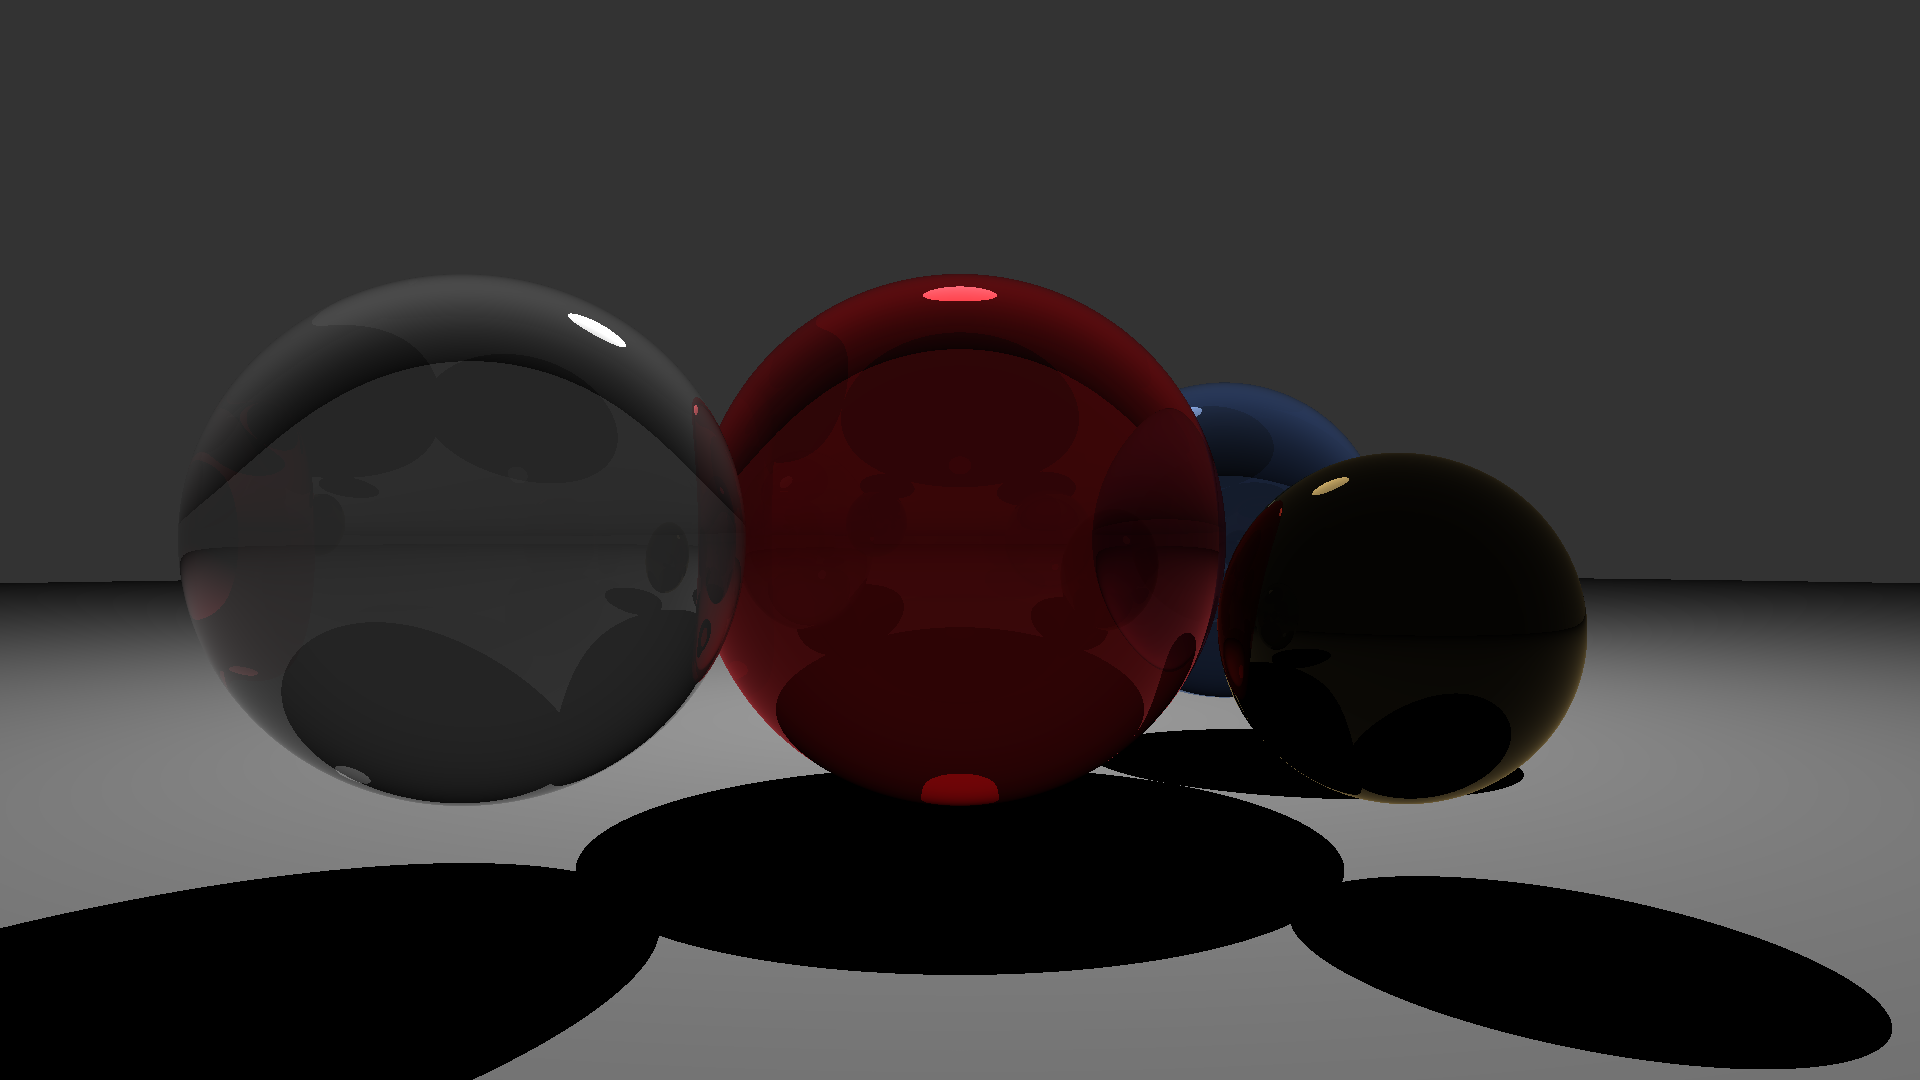
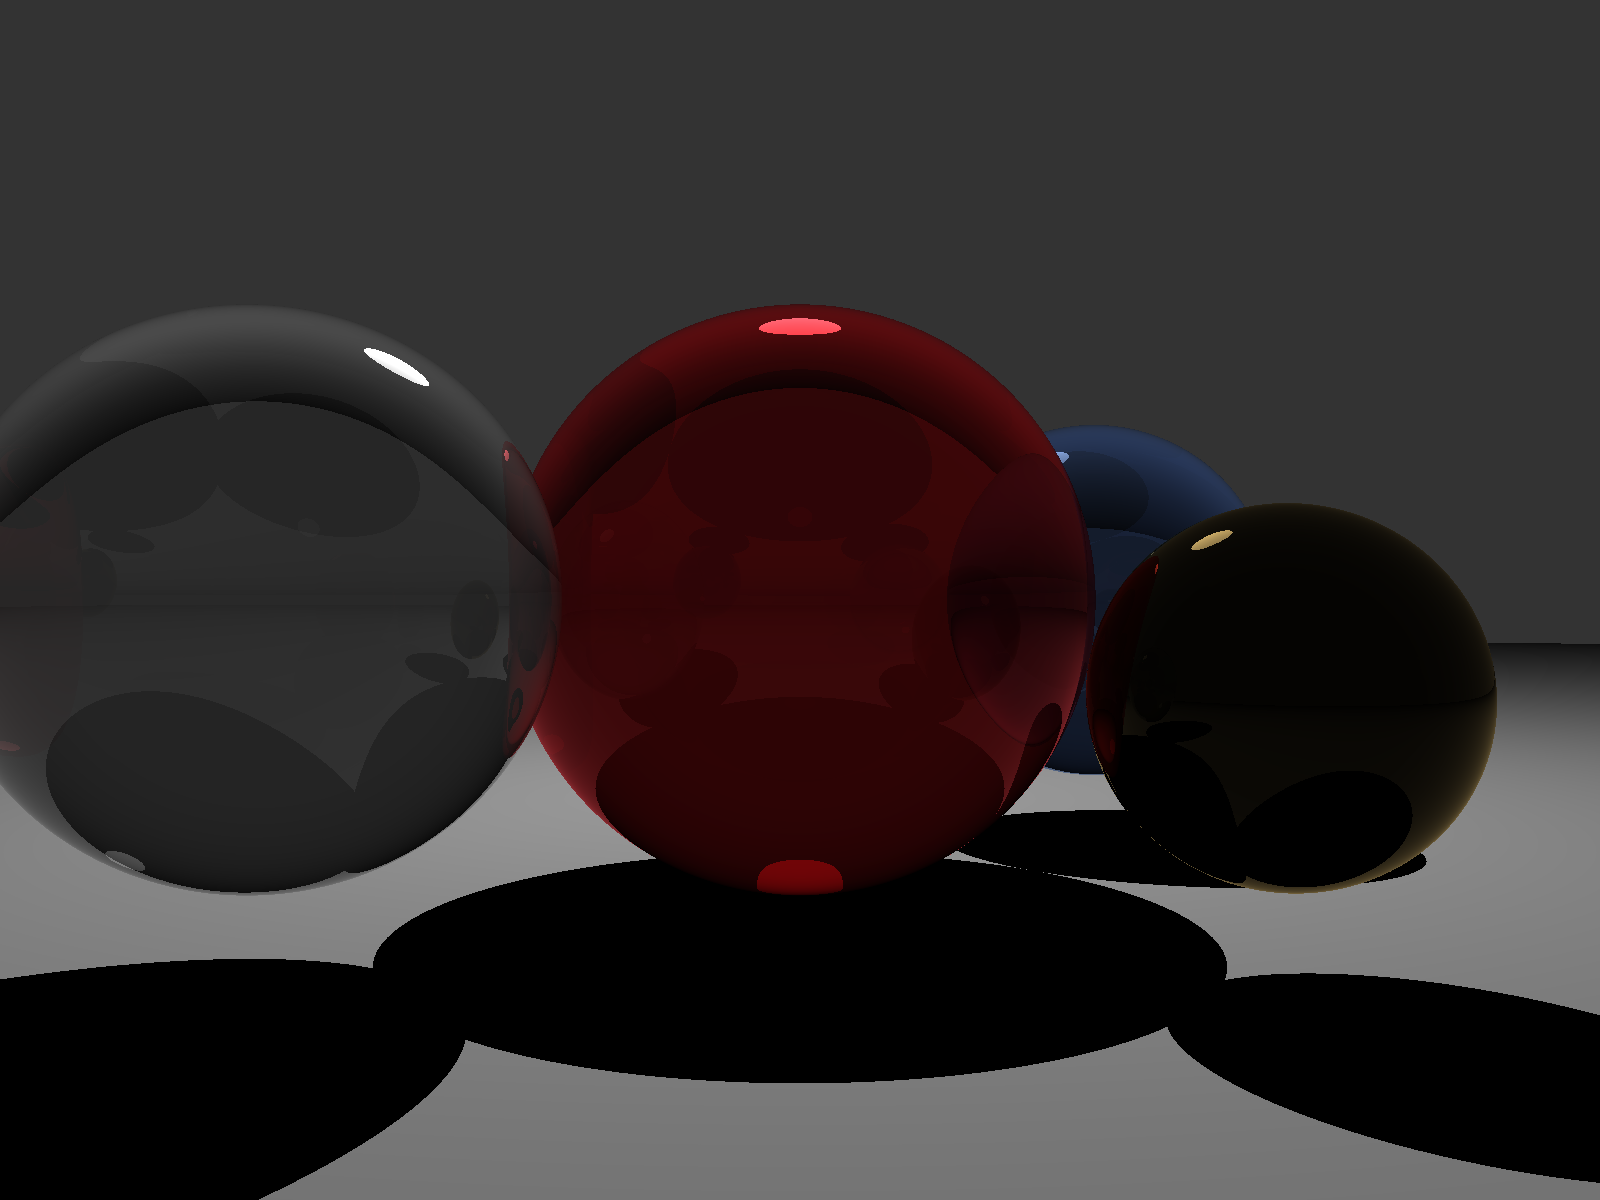
a little sprucing up for linking from my website

diff --git a/main.cpp b/main.cpp
@@ -3,6 +3,9 @@
 #include <string.h>
 #include <stdlib.h>
 
+#include <ctime>
+#include <chrono>
+
 #include "vec3.h"
 #include "sphere.h"
 #include "raytracer.h"
@@ -37,7 +40,7 @@ int main(int argc, char **argv)
 	else
 	{
 		std::cout << "Error: method not found: " << m << '\n' 
-				<< "Usage: raytracer method width=800 height=600\n\tmethod = [sequential | openmp | pthread | opencl]\n";
+				<< "Usage: raytracer method width height\n\tmethod = [sequential | openmp | pthread | opencl]\n";
 		exit(-1);
 	}
 
@@ -54,7 +57,15 @@ int main(int argc, char **argv)
     // light
     spheres.push_back(Sphere(Vec3f( 0.0,     20, -30),     3, Vec3f(0.00, 0.00, 0.00), 0, 0.0, Vec3f(3))); 
     
+	std::chrono::time_point<std::chrono::system_clock> start, end;
 
+	start = std::chrono::system_clock::now();
 	raytracer->Render(spheres);
+	end = std::chrono::system_clock::now();
+
+	std::chrono::duration<double> elapsed = end - start;
+
+	std::cout << elapsed.count() << "\n";
+
 	return 0;
 }

diff --git a/raytracer.cpp b/raytracer.cpp
@@ -27,8 +27,6 @@ Raytracer::Raytracer(int width, int height)
 
 void Raytracer::Render(const std::vector<Sphere> spheres)
 {
-	printf("Raytracer::Render()\n");
-
 	image = (unsigned char *)malloc(width * height * 4);
 
 	invWidth = 1 / float(width);
@@ -160,7 +158,6 @@ SequentialRaytracer::SequentialRaytracer(int width, int height)
 void SequentialRaytracer::Render(const std::vector<Sphere> spheres)
 {
 	Raytracer::Render(spheres);
-	printf("SequentialRaytracer::Render()\n");
 
 	unsigned x, y;
 	unsigned index;
@@ -202,5 +199,4 @@ OpenCLRaytracer::OpenCLRaytracer(int width, int height)
 void OpenCLRaytracer::Render(const std::vector<Sphere> spheres)
 {
 	Raytracer::Render(spheres);
-	printf("OpenCLRaytracer::Render()\n");
 }

diff --git a/pthread_raytracer.cpp b/pthread_raytracer.cpp
@@ -18,7 +18,6 @@ PThreadRaytracer::PThreadRaytracer(int width, int height)
 void PThreadRaytracer::Render(const std::vector<Sphere> spheres)
 {
 	Raytracer::Render(spheres);
-	printf("PThreadRaytracer::Render()\n");
 
 	
 	pthread_t threads[NUM_THREADS];// = (pthread_t *)malloc(num_pix * sizeof(pthread_t)); //will probably actually have to malloc this
@@ -89,7 +88,6 @@ void PThreadRaytracer::PrimaryRayRoutine(int thread_num, std::vector<Sphere> sph
 
 void * PThreadRaytracer::RayWrapper(void *arg)
 {
-	//printf("PThreadRaytracer::RayWrapper()\n");
 
 	struct RayData *data = (RayData *)arg;
 

diff --git a/openmp_raytracer.cpp b/openmp_raytracer.cpp
@@ -13,7 +13,6 @@ OpenMPRaytracer::OpenMPRaytracer(int width, int height)
 void OpenMPRaytracer::Render(const std::vector<Sphere> spheres)
 {
 	Raytracer::Render(spheres);
-	printf("OpenMPRaytracer::Render()\n");
 
 	omp_set_num_threads(NUM_THREADS);
 

diff --git a/readme.md b/readme.md
@@ -1,0 +1,21 @@
+# Concurrent Raytracer
+## Sequential, OpenMP, Posix Threads, OpenCL*
+
+*OpenCL version not yet implemented.
+
+<br>
+
+### About:
+This is my final project for a course I took in university, CSCI 4060U: Massively Parallel Programming. My plan was to create a simple raytracing app that could use different APIs for parallelism and compare them to each other and to a sequential version. The APIs I chose were OpenMP, POSIX Threads and OpenCL. Unfortuately, with other final projects, presentations and exams to worry about, I was not able to start on the OpenCL version in time to meet the submission deadline.
+
+I do intend to implement the OpenCL version, as well as add functionality for loading a scene from a file, add support for multiple shapes (instead of just spheres), and make general improvements.
+
+<br>
+
+### How To Run:
+- Open the main folder in bash terminal.
+- Run the "make" command to build the app. The executable will be made in the "output/" folder.
+- Run the command "cd output/" to switch into it.
+- Run the command "./raytracer \<method> \<width> \<height>" to run the app.
+> for \<method> specify "sequential", "openmp", "pthread", or "opencl". \<width> and \<height> specify the size in pixels of the output image.
+- This will create an image file in the output folder "\<method>.png" and print the render time (in seconds) to the console.
